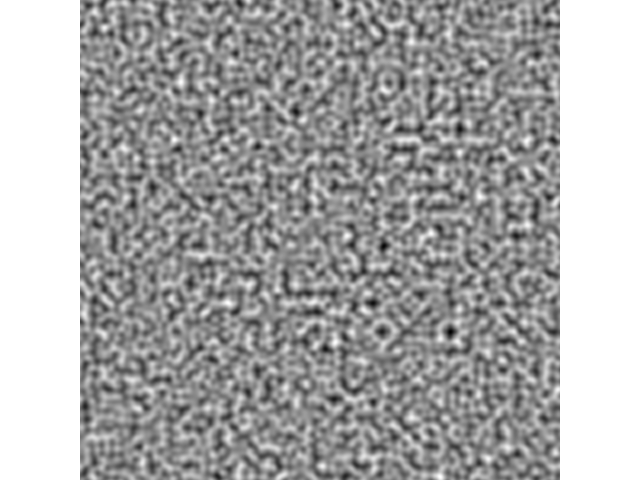
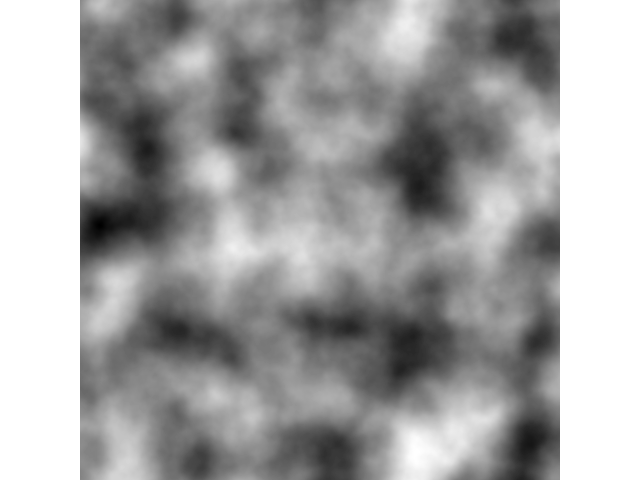
Added: Octaving

diff --git a/PerlinNoiseAdvanced.py b/PerlinNoiseAdvanced.py
@@ -1,0 +1,97 @@
+from collections import namedtuple
+import random
+import math
+import numpy as np
+from matplotlib import pyplot as plt
+
+scale = 100
+width = 500
+height = 500
+octaves = 10
+persistence = 0.5
+lacunarity = 1.6
+
+noise = np.zeros(shape=(width, height))
+Vector2D = namedtuple("Vector2", ["x", "y"])
+
+seed = 0
+
+def lerp(left, right, amount):
+    return (1 - amount) * left + amount * right
+
+
+def get_seed(a, b):
+    rng = random.Random(-a)
+    a_new = rng.randrange(0, 10000000)
+    rng = random.Random(b)
+    b_new = rng.randrange(0, 10000000)
+    return a_new + b_new + seed
+
+
+def get_noise_value(x, y):
+    x_min = int(x)
+    y_min = int(y)
+    x_max = x_min + 1
+    y_max = y_min + 1
+
+    rng = random.Random(get_seed(x_min, y_min))
+    g0 = Vector2D(rng.random() * 2 - 1, rng.random() * 2 - 1)
+    rng = random.Random(get_seed(x_max, y_min))
+    g1 = Vector2D(rng.random() * 2 - 1, rng.random() * 2 - 1)
+    rng = random.Random(get_seed(x_min, y_max))
+    g2 = Vector2D(rng.random() * 2 - 1, rng.random() * 2 - 1)
+    rng = random.Random(get_seed(x_max, y_max))
+    g3 = Vector2D(rng.random() * 2 - 1, rng.random() * 2 - 1)
+
+    p0 = Vector2D(x - x_min, y - y_min)
+    p1 = Vector2D(x - x_max, y - y_min)
+    p2 = Vector2D(x - x_min, y - y_max)
+    p3 = Vector2D(x - x_max, y - y_max)
+
+    d0 = dot(p0.x, p0.y, g0.x, g0.y)
+    d1 = dot(p1.x, p1.y, g1.x, g1.y)
+    d2 = dot(p2.x, p2.y, g2.x, g2.y)
+    d3 = dot(p3.x, p3.y, g3.x, g3.y)
+
+    x_fade = fade(x - x_min)
+    y_fade = fade(y - y_min)
+
+    lerp1 = lerp(d0, d1, x_fade)
+    lerp2 = lerp(d2, d3, x_fade)
+
+    return lerp(lerp1, lerp2, y_fade)
+
+
+def dot(x1, y1, x2, y2):
+    return x1 * x2 + y1 * y2
+
+
+def fade(t):
+    return 6*math.pow(t, 5) - 15 * math.pow(t, 4) + 10*math.pow(t, 3)
+
+
+rnd = random.Random(seed)
+offsets = []
+for i in range(octaves):
+    offsets.append(Vector2D(rnd.randrange(0, 10000), rnd.randrange(0, 10000)))
+
+for y in range(height):
+    for x in range(width):
+        amplitude = 1
+        frequency = 1
+        noiseValue = 0
+        for i in range(octaves):
+            sampleX = x / scale * frequency + offsets[i].x
+            sampleY = y / scale * frequency + offsets[i].y
+            rawNoise = get_noise_value(sampleX, sampleY)
+            noiseValue += rawNoise * amplitude
+            amplitude *= persistence
+            frequency *= lacunarity
+        noise[x][y] = noiseValue
+
+fig = plt.figure(frameon=False)
+ax = fig.add_axes([0, 0, 1, 1])
+ax.imshow(noise, cmap='gray')
+ax.axis('off')
+fig.savefig("out.png")
+fig.show()
